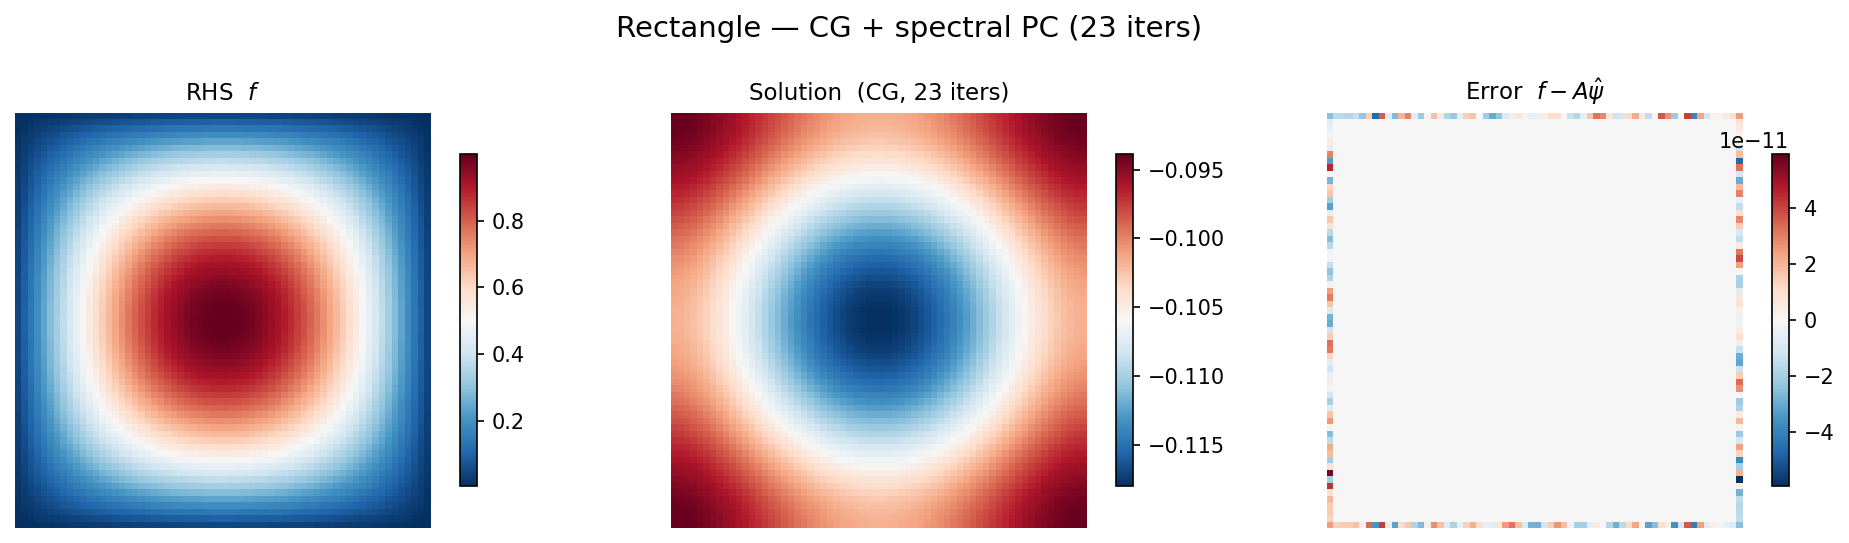
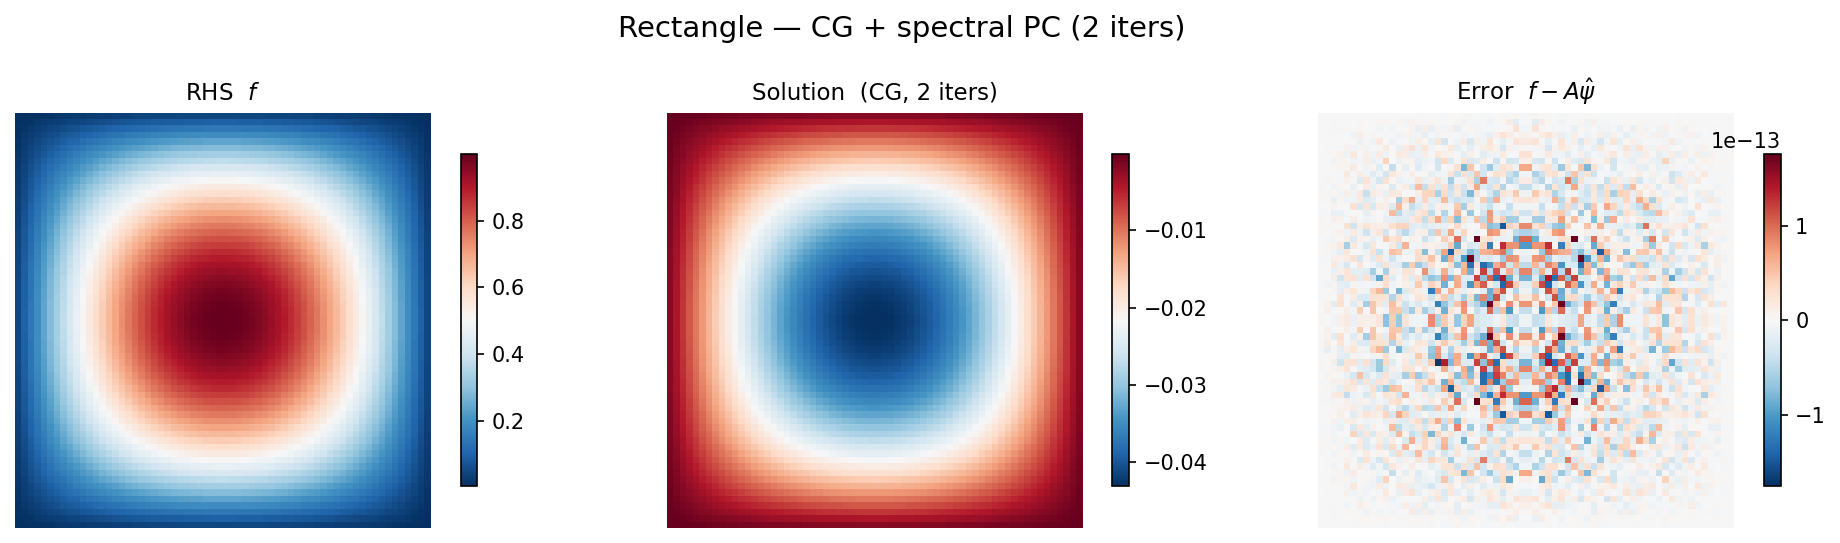
fix(solvers): make masked_laplacian zero-padded instead of periodic at the array edge (#359)
`masked_laplacian` read its neighbours with `jnp.roll`, so wherever the
mask is wet at the array edge it coupled to the opposite edge: on an
all-ones mask it was the periodic Laplacian
(`masked_laplacian(e_(5,0))[5, Nx-1] = 1/dx²`), while
`docs/notebooks/demo_solvers.py` ("Rectangle — CG") compared its CG
solution with the DST (Dirichlet) solve (max difference 0.1 on the 64²
demo).

- Pad ψ·mask with one zero ring and bind the four neighbour views once
  (one fused pass); the array edge is now a homogeneous Dirichlet boundary
  one node outside the array. Results are bit-identical wherever the
  mask's array-edge ring is dry (every existing caller and test). Faster
  too: 512², jitted, CPU, 408 vs 802 µs forward, 884 vs 3340 µs gradient.
- Docstring: the DST preconditioner matches the operator exactly on a
  rectangle; the FFT one is an approximation.
- `masked_helmholtz_operator` is documented as the matrix of
  `masked_laplacian`, so its base is now the DST-I operator with
  non-periodic coupling (it was the FFT base with periodic coupling);
  unchanged for masks with a dry edge ring.  It takes `bc=` (the base:
  "dst" default, "fft" periodic wrap, "dct"), and build_capacitance_solver
  now builds its operator through it.  A "fft" / "dct" capacitance base
  gives masked_laplacian's answer only when no wet cell touches the array
  edge, so it raises otherwise (the docstring claimed "fft" matched for
  any mask, true only while masked_laplacian wrapped).
[…]

diff --git a/finitevolx/_src/solvers/linear_operators.py b/finitevolx/_src/solvers/linear_operators.py
@@ -22,9 +22,9 @@ own discrete Laplacian and land mask.
 
 ``masked_helmholtz_operator``
     The masked operator applied by :func:`masked_laplacian`, as a
-    ``gaussx.MaskedOperator`` over the periodic rectangular operator, with
-    the coupling ring precomputed so ``gaussx.solve`` uses the capacitance
-    method (two FFT solves per right-hand side).
+    ``gaussx.MaskedOperator`` over the Dirichlet (DST-I) rectangular
+    operator, with the coupling ring precomputed so ``gaussx.solve`` uses the
+    capacitance method (two DST solves per right-hand side).
 
 Both act on **flat** vectors (row-major), as every lineax operator does:
 ``op.mv(psi.ravel())``. The masked operator acts on the wet values only,
@@ -183,17 +183,19 @@ def masked_helmholtz_operator(
     dx: float,
     dy: float,
     lambda_: float = 0.0,
+    bc: str = "dst",
 ) -> gaussx.MaskedOperator:
     r"""The masked Helmholtz operator of :func:`masked_laplacian` as a gaussx operator.
 
-    ``masked_laplacian`` applies the periodic 5-point ``(∇² − λ)`` to ``ψ``
-    zeroed outside the mask (homogeneous Dirichlet on the coast) and keeps
-    the wet rows. As a matrix that is the wet sub-block ``A[m][:, m]`` of the
-    periodic rectangular operator ``A`` (:func:`helmholtz_operator` with
-    ``bc="fft"``). This returns that sub-block as a ``gaussx.MaskedOperator``
+    ``masked_laplacian`` applies the 5-point ``(∇² − λ)`` to ``ψ`` zeroed
+    outside the mask and outside the array (homogeneous Dirichlet on the
+    coast and one node beyond the array edge) and keeps the wet rows. As a
+    matrix that is the wet sub-block ``A[m][:, m]`` of the Dirichlet
+    rectangular operator ``A`` (:func:`helmholtz_operator` with
+    ``bc="dst"``). This returns that sub-block as a ``gaussx.MaskedOperator``
     acting on the wet values only, with the coupling ring (the dry cells the
     stencil reaches) precomputed, so ``gaussx.solve`` is the capacitance
-    method: exact, two FFT solves per right-hand side.
+    method: exact, two DST solves per right-hand side.
 
     The mask is concrete and the construction runs on the host (it builds
     the ``|C| × |C|`` capacitance factorisation); build it once per geometry
@@ -207,11 +209,17 @@ def masked_helmholtz_operator(
     dx, dy : float
         Grid spacings.
     lambda_ : float
-        Helmholtz parameter ``λ ≥ 0``. Default ``0`` (Poisson). With
-        ``λ = 0`` the periodic base operator is singular (the constant mode),
-        but the masked block is not as long as the mask has dry cells: gaussx
-        derives the base's null vector and borders the capacitance system
-        with it, so the masked solve is still exact.
+        Helmholtz parameter ``λ ≥ 0``. Default ``0`` (Poisson); the
+        Dirichlet base operator is non-singular at ``λ = 0``.
+    bc : {"dst", "fft", "dct"}
+        Rectangular base operator whose solves the capacitance method uses.
+        The base enters the masked block only through cells beyond the
+        array edge: with ``"dst"`` (default) the block is exactly
+        ``masked_laplacian``'s; ``"fft"`` (periodic wrap) and ``"dct"``
+        give the same block only when no wet cell touches the array edge.
+        A singular base (``"fft"`` / ``"dct"`` at ``λ = 0``) is handled
+        exactly by gaussx (it borders the capacitance system with the
+        base's null vector).
 
     Returns
     -------
@@ -229,9 +237,12 @@ def masked_helmholtz_operator(
     if isinstance(mask, Mask2D):
         mask = mask.xy_corner_strict
     wet = np.asarray(mask).astype(bool)  # [Ny, Nx], concrete
-    base = helmholtz_operator(wet.shape, dx, dy, lambda_=lambda_, bc="fft")
-    flat = jnp.asarray(wet.ravel())  # [Ny*Nx]
-    coupling = gaussx.grid_coupling_indices(jnp.asarray(wet), periodic=True)
+    # B = (∇² - λ) on the rectangle; "dst" matches masked_laplacian's zero pad
+    base = helmholtz_operator(wet.shape, dx, dy, lambda_=lambda_, bc=bc)
+    flat = jnp.asarray(wet.ravel())  # [Ny*Nx], the unknowns
+    # Coupling set: the dry cells the stencil of a wet cell reaches (the coast
+    # ring), wrapping around the array only for the periodic base.
+    coupling = gaussx.grid_coupling_indices(jnp.asarray(wet), periodic=bc == "fft")
     return gaussx.MaskedOperator(
         base,
         flat,

diff --git a/finitevolx/_src/solvers/elliptic.py b/finitevolx/_src/solvers/elliptic.py
@@ -32,7 +32,6 @@ from collections.abc import Callable
 import numbers
 
 import equinox as eqx
-import gaussx
 import jax
 import jax.numpy as jnp
 from jaxtyping import Array, Float
@@ -56,7 +55,7 @@ from finitevolx._src.solvers.iterative import (  # noqa: F401
     masked_laplacian,
     solve_cg,
 )
-from finitevolx._src.solvers.linear_operators import helmholtz_operator
+from finitevolx._src.solvers.linear_operators import masked_helmholtz_operator
 
 # Re-export from preconditioners module
 from finitevolx._src.solvers.preconditioners import (  # noqa: F401
@@ -173,7 +172,7 @@ def build_capacitance_solver(
 
     The masked operator is the wet sub-block ``B[W][:, W]`` of the
     rectangular five-point operator ``B = (∇² − λ)``
-    (:func:`~finitevolx.helmholtz_operator` with ``bc=base_bc``), as a
+    (:func:`~finitevolx.masked_helmholtz_operator` with ``bc=base_bc``), a
     ``gaussx.MaskedOperator`` whose coupling set is the coast ring.  This is
     an **offline** function: it factorises the ``N_c × N_c`` capacitance
     matrix (``N_c`` = number of coast cells) with ``N_c`` rectangular solves.
@@ -199,7 +198,7 @@ def build_capacitance_solver(
         The base only enters through cells beyond the array edge, so every
         base gives the ``masked_laplacian`` solution as long as no wet cell
         touches the array edge (true for any mask with a dry ghost ring);
-        with ``"fft"`` it is that solution for any mask.  A singular base
+        ``"fft"`` and ``"dct"`` raise when one does.  A singular base
         (``"fft"`` / ``"dct"`` at λ = 0) is handled exactly: gaussx borders
         the capacitance system with the base's null vector.
 
@@ -212,8 +211,9 @@ def build_capacitance_solver(
     Raises
     ------
     ValueError
-        For an unknown ``base_bc``, a mask with no wet cells, or a mask with
-        no dry cells (nothing to correct: use the rectangular solver).
+        For an unknown ``base_bc``, a mask with no wet cells, a mask with
+        no dry cells (nothing to correct: use the rectangular solver), or a
+        ``"fft"`` / ``"dct"`` base with a wet cell on the array edge.
 
     Examples
     --------
@@ -236,13 +236,18 @@ def build_capacitance_solver(
             "The mask has no dry (False) cells, so there is no coast to "
             f"correct for; use solve_helmholtz_{base_bc} directly."
         )
-    # B = (∇² - λ) on the rectangle, the same eigenvalues as the spectral solvers
-    base = helmholtz_operator(wet.shape, dx, dy, lambda_=lambda_, bc=base_bc)
-    flat = jnp.asarray(wet.ravel())  # [Ny*Nx], the unknowns W
-    # Coupling set: the cells outside W that the stencil of W reaches (the
-    # coast ring), wrapping around only for the periodic base.
-    coupling = gaussx.grid_coupling_indices(jnp.asarray(wet), periodic=base_bc == "fft")
-    operator = gaussx.MaskedOperator(base, flat, flat, coupling_indices=coupling)
+    edge = wet[0].any() | wet[-1].any() | wet[:, 0].any() | wet[:, -1].any()
+    if base_bc != "dst" and edge:
+        raise ValueError(
+            f"base_bc={base_bc!r} reaches beyond the array edge, where "
+            "masked_laplacian (method='cg') has psi = 0, but the mask has wet "
+            "cells on the edge: use base_bc='dst' or a mask with a dry ring."
+        )
+    # The wet block of B = (∇² - λ) on the rectangle (the same eigenvalues as
+    # the spectral solvers), coupled to the dry cells through the coast ring.
+    operator = masked_helmholtz_operator(
+        jnp.asarray(wet), dx, dy, lambda_=lambda_, bc=base_bc
+    )
     return CapacitanceSolver(
         operator=operator,
         interior_indices=jnp.asarray(np.flatnonzero(wet.ravel())),

diff --git a/tests/test_elliptic.py b/tests/test_elliptic.py
@@ -674,20 +674,55 @@ class TestNystromPreconditioner:
 
 
 class TestMaskedLaplacian:
-    def test_full_mask_matches_roll_laplacian(self, periodic_grid):
-        """With all-ones mask, result matches the standard periodic Laplacian."""
+    def test_full_mask_matches_dense_dirichlet_laplacian(self, periodic_grid):
+        """All-ones mask: the dense 5-point Laplacian with ψ = 0 one node
+        outside the array (Dirichlet), not the periodic one (#310)."""
         Ny, Nx, dx, dy = periodic_grid
+        lam = 2.0
         psi = jnp.sin(jnp.arange(Ny, dtype=float)[:, None]) * jnp.cos(
             jnp.arange(Nx, dtype=float)[None, :]
         )
-        mask = jnp.ones((Ny, Nx))
-        lap_masked = masked_laplacian(psi, mask, dx, dy, lambda_=0.0)
-        lap_std = (
-            jnp.roll(psi, 1, axis=1) + jnp.roll(psi, -1, axis=1) - 2 * psi
-        ) / dx**2 + (
-            jnp.roll(psi, 1, axis=0) + jnp.roll(psi, -1, axis=0) - 2 * psi
+
+        def d2(n, h):  # 1-D second difference, zero beyond both ends  [n, n]
+            return (np.eye(n, k=1) + np.eye(n, k=-1) - 2.0 * np.eye(n)) / h**2
+
+        # A = I_y ⊗ D2_x + D2_y ⊗ I_x - λ I on row-major [Ny*Nx]
+        A = np.kron(np.eye(Ny), d2(Nx, dx)) + np.kron(d2(Ny, dy), np.eye(Nx))
+        A -= lam * np.eye(Ny * Nx)
+        ref = (A @ np.asarray(psi).ravel()).reshape(Ny, Nx)
+        out = masked_laplacian(psi, jnp.ones((Ny, Nx)), dx, dy, lambda_=lam)
+        np.testing.assert_allclose(np.asarray(out), ref, rtol=1e-12, atol=1e-9)
+
+    def test_no_wrap_at_array_edge(self, periodic_grid):
+        Ny, Nx, dx, dy = periodic_grid
+        e = jnp.zeros((Ny, Nx)).at[Ny // 2, 0].set(1.0)
+        out = masked_laplacian(e, jnp.ones((Ny, Nx)), dx, dy)
+        assert float(out[Ny // 2, Nx - 1]) == 0.0
+        assert float(out[Ny // 2, 1]) == pytest.approx(1.0 / dx**2)
+
+    def test_full_mask_is_inverted_by_dst(self, periodic_grid):
+        """The DST-I solver is the exact inverse on the all-ones mask."""
+        Ny, Nx, dx, dy = periodic_grid
+        lam = 1.0
+        psi = jax.random.normal(jax.random.PRNGKey(0), (Ny, Nx))
+        f = masked_laplacian(psi, jnp.ones((Ny, Nx)), dx, dy, lambda_=lam)
+        np.testing.assert_allclose(
+            np.asarray(solve_helmholtz_dst(f, dx, dy, lam)), np.asarray(psi), atol=1e-10
+        )
+
+    def test_dry_edge_ring_unchanged_from_periodic_stencil(self, periodic_grid):
+        """With a dry array-edge ring the zero padding and the old periodic
+        roll read the same (zero) neighbours, so the result is unchanged."""
+        Ny, Nx, dx, dy = periodic_grid
+        psi = jax.random.normal(jax.random.PRNGKey(1), (Ny, Nx))
+        mask = jnp.zeros((Ny, Nx)).at[1:-1, 1:-1].set(1.0).at[3, 4].set(0.0)
+        pm = psi * mask
+        roll = (jnp.roll(pm, 1, axis=1) + jnp.roll(pm, -1, axis=1) - 2 * pm) / dx**2 + (
+            jnp.roll(pm, 1, axis=0) + jnp.roll(pm, -1, axis=0) - 2 * pm
         ) / dy**2
-        np.testing.assert_allclose(np.array(lap_masked), np.array(lap_std), atol=1e-12)
+        ref = (roll - 0.5 * pm) * mask
+        out = masked_laplacian(psi, mask, dx, dy, lambda_=0.5)
+        np.testing.assert_allclose(np.asarray(out), np.asarray(ref), rtol=1e-14, atol=0)
 
     def test_zero_outside_mask(self, periodic_grid):
         """Output is zero where mask is zero."""

diff --git a/finitevolx/_src/solvers/iterative.py b/finitevolx/_src/solvers/iterative.py
@@ -10,7 +10,7 @@ Masked Laplacian
 ----------------
 :func:`masked_laplacian` applies the discrete Helmholtz operator
 ``(∇² − λ)`` on a masked (irregular) domain, enforcing homogeneous
-Dirichlet conditions at the mask boundary.
+Dirichlet conditions at the mask boundary and at the array edge.
 """
 
 from __future__ import annotations
@@ -264,8 +264,12 @@ def masked_laplacian(
     *psi* outside the mask before applying the 5-point stencil.  The output
     is also zeroed outside the mask.
 
-    Neighbors at the rectangle edges wrap around (periodic roll), which is
-    consistent with using the FFT as a preconditioner.
+    Neighbours beyond the array edge are zero (dry), so the array edge is a
+    homogeneous Dirichlet boundary one node outside the array, wherever the
+    mask is wet there; nothing wraps around.  On an all-ones mask this is
+    the dense Dirichlet 5-point operator that the DST-I solvers invert, so
+    ``make_spectral_preconditioner(..., bc="dst")`` matches it exactly on a
+    rectangle; the FFT preconditioner (periodic) is an approximation.
 
     Parameters
     ----------
@@ -291,11 +295,15 @@ def masked_laplacian(
         mask_arr = mask.xy_corner_strict.astype(psi.dtype)
     else:
         mask_arr = mask
-    psi_m = psi * mask_arr  # enforce zero outside domain
-    # 5-point finite-difference stencil with periodic roll at edges
-    lap = (
-        jnp.roll(psi_m, 1, axis=1) + jnp.roll(psi_m, -1, axis=1) - 2.0 * psi_m
-    ) / dx**2 + (
-        jnp.roll(psi_m, 1, axis=0) + jnp.roll(psi_m, -1, axis=0) - 2.0 * psi_m
-    ) / dy**2
-    return (lap - lambda_ * psi_m) * mask_arr
+    psi_m = psi * mask_arr  # enforce zero outside domain  [Ny, Nx]
+    # Zero ring outside the array (Dirichlet, not periodic); pad once and
+    # bind each neighbour view once, so the stencil lowers to one fused pass.
+    p = jnp.pad(psi_m, 1)  # [Ny+2, Nx+2]
+    east = p[1:-1, 2:]  # ψ[j, i+1]  [Ny, Nx]
+    west = p[1:-1, :-2]  # ψ[j, i-1]  [Ny, Nx]
+    north = p[2:, 1:-1]  # ψ[j+1, i]  [Ny, Nx]
+    south = p[:-2, 1:-1]  # ψ[j-1, i]  [Ny, Nx]
+    # ∇²ψ[j, i] = (ψ[j, i+1] + ψ[j, i-1] - 2ψ[j, i]) / dx²
+    #           + (ψ[j+1, i] + ψ[j-1, i] - 2ψ[j, i]) / dy²
+    lap = (east + west - 2.0 * psi_m) / dx**2 + (north + south - 2.0 * psi_m) / dy**2
+    return (lap - lambda_ * psi_m) * mask_arr  # [Ny, Nx]

diff --git a/tests/test_linear_operators.py b/tests/test_linear_operators.py
@@ -182,11 +182,10 @@ class TestMaskedHelmholtzOperator:
 
     @pytest.mark.slow
     @pytest.mark.parametrize("edge", [False, True])
-    def test_poisson_capacitance_over_singular_base(self, edge):
-        """λ = 0: the periodic FFT base is singular, but gaussx borders the
-        capacitance system with its null vector, so the masked Poisson solve
-        is exact — for a closed basin and for a mask that wraps the periodic
-        edge (codex review on #341)."""
+    def test_poisson_capacitance_at_zero_lambda(self, edge):
+        """λ = 0: the masked Poisson solve is exact, for a closed basin and
+        for a mask that touches the array edge (codex review on #341; the
+        base was the singular periodic FFT operator until #310)."""
         if edge:
             m = np.ones((NY, NX), dtype=bool)
             m[4:7, 3:9] = False
@@ -200,8 +199,8 @@ class TestMaskedHelmholtzOperator:
         ref = jnp.linalg.solve(A_m.as_matrix(), b)
         np.testing.assert_allclose(np.asarray(y), np.asarray(ref), atol=1e-11)
 
-    def test_mask_touching_the_edge_wraps(self):
-        """masked_laplacian wraps at the rectangle edge; so must the operator."""
+    def test_mask_touching_the_edge_is_dirichlet(self):
+        """masked_laplacian is zero beyond the array edge; so is the operator."""
         m = np.ones((NY, NX), dtype=bool)
         m[4:7, 3:9] = False
         A_m = masked_helmholtz_operator(m, DX, DY, lambda_=LAM)

diff --git a/tests/test_capacitance_residual.py b/tests/test_capacitance_residual.py
@@ -113,3 +113,25 @@ def test_known_values_on_mask2d_faces():
     full = fvx.masked_laplacian(psi, jnp.ones_like(psi), DX, DY, lambda_=lam)
     res = jnp.where(wet, full - f, 0.0)
     assert float(jnp.max(jnp.abs(res))) < 1e-10
+
+
+@pytest.mark.parametrize("base_bc", ["fft", "dct"])
+def test_non_dst_base_rejects_wet_array_edge(base_bc):
+    """A non-Dirichlet base reaches beyond the array edge, where CG has psi = 0."""
+    mask = np.ones((NY, NX), dtype=bool)
+    mask[NY // 2, :] = False  # dry somewhere, but wet on every array edge
+    with pytest.raises(ValueError, match="wet cells on the edge"):
+        fvx.build_capacitance_solver(mask, DX, DY, lambda_=4.0, base_bc=base_bc)
+
+
+@pytest.mark.slow
+def test_dst_base_matches_cg_with_wet_array_edge():
+    """The Dirichlet base is masked_laplacian's zero pad, edge included."""
+    mask = np.ones((NY, NX), dtype=bool)
+    mask[NY // 2, 5:-5] = False
+    f = _rhs()
+    psi = fvx.build_capacitance_solver(mask, DX, DY, lambda_=4.0, base_bc="dst")(f)
+    mask_f = jnp.asarray(mask, dtype=float)
+    res = fvx.masked_laplacian(psi, mask_f, DX, DY, lambda_=4.0) - f * mask_f
+    # direct solve: round-off of |f| ~ 1 times the O(1/dx^2) stencil
+    assert float(jnp.max(jnp.abs(res))) < 1e-10

diff --git a/docs/notebooks/demo_solvers.py b/docs/notebooks/demo_solvers.py
@@ -303,7 +303,13 @@ print("Saved geometries.png")
 # Conjugate Gradient treats the Helmholtz operator as a black-box
 # matrix-vector product (Krylov method).  The spectral preconditioner
 # approximately inverts each CG step via a DST solve, giving rapid
-# convergence.
+# convergence.  `fvx.masked_laplacian` treats everything beyond the array
+# edge as dry (zero), so on the all-ones rectangle mask it *is* the
+# Dirichlet operator the DST inverts: CG solves the same problem as the
+# spectral solver, and with this single-mode right-hand side (a DST
+# eigenvector) it converges in a couple of iterations, preconditioned or
+# not.  The DST preconditioner is exact here; the FFT one would only be an
+# approximation.
 #
 # ### Multigrid
 #

diff --git a/docs/notebooks/spde_prior.py b/docs/notebooks/spde_prior.py
@@ -150,7 +150,7 @@ plt.show()
 # With a land mask, $K_m = \kappa^2 - \nabla^2_h$ restricted to the wet
 # points is no longer diagonal in any fast basin, but
 # `masked_helmholtz_operator` solves it exactly with the capacitance method
-# (two FFT solves per right-hand side, after a one-off factorisation over
+# (two DST solves per right-hand side, after a one-off factorisation over
 # the coastal ring). For $\alpha = 2$,
 #
 # $$
